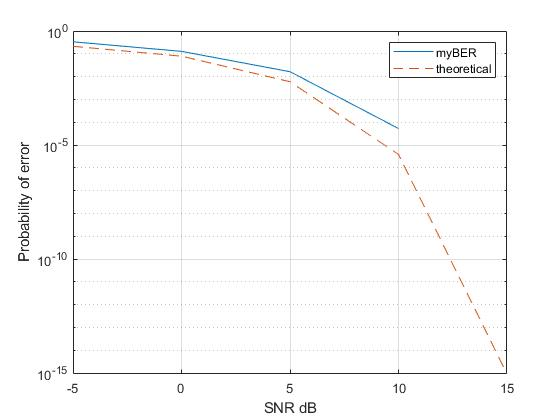
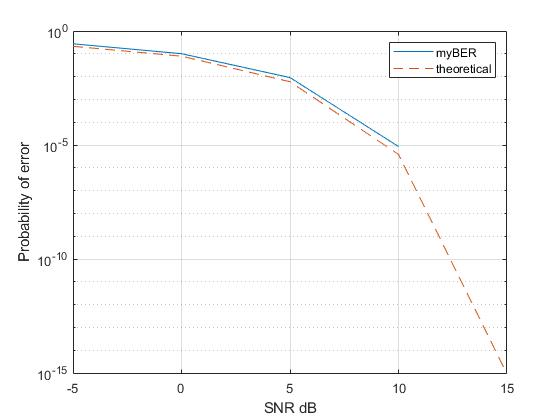
Change modulation

Changed region(s): [[0.1214, 0.0929, 0.7286, 0.3405]]

diff --git a/BER_Curve_Test.m b/BER_Curve_Test.m
@@ -12,11 +12,11 @@ cfg = load('TestParam.mat');            % load configFile
 params = cfg.TestParam;                 % get the set of parameters
 dispConfigFile_Test(params);            % display the parameters
 params.N_pilots = 126;                  % add the number of pilots
-params.N_zeros = 2;                     % add the number of zero ofdm symbol
-params.SNR_list = -5:5:20;              % SNR list for BER curve
+params.N_zeros = 0;                     % add the number of zero ofdm symbol
+params.SNR_list = -5:5:15;              % SNR list for BER curve
 params.Nbps = 2;                        % Modulation order
 params.modulation = 'qpsk';
-NsimPerSNR = 10;                        % number of simulations per SNR value
+NsimPerSNR = 1000;                        % number of simulations per SNR value
 
 %% --- Local parameters
 STO = 0;                                % Time offset (switching unit vector)
@@ -25,7 +25,7 @@ CFO = 0;                                % Carrier frequency offset in ppm
 Nr = 1;                                 % number of receivers
 
 % Number of bits knowing the inactive subcarriers and the number of pilots
-Nbits = params.nData * (params.nActiveQ - params.N_pilots) * params.Nbps;
+Nbits = params.nData * (params.nActiveQ-params.N_pilots) * params.Nbps;
 frame_size = (params.nPreamble+params.nData+params.N_zeros)*(params.Q+params.LCP);
 Nsymb = (params.Q+params.LCP)*(params.nData+params.nPreamble);
 
@@ -58,7 +58,7 @@ for sim_idx = 1:NsimPerSNR
         signal_rx = channel_propagation_test(params,signal_tx,SNR,STO,CFO,Nr);
         
         % 5. CFO and STO estimation:
-        [STO_estimated, CFO_estimated] = estimationSTOCFO_Test(params,signal_rx,0.5);
+        [STO_estimated, CFO_estimated] = estimationSTOCFO_Test(params,signal_rx,1/(params.nPreamble+params.nData+params.N_zeros));
  
         % Average over the antennas
         STO_estimated = round(mean(STO_estimated,'all'));
@@ -102,6 +102,8 @@ grid on; hold on;
 % ber theoretical
 ber_theo = berawgn(params.SNR_list,'qam',2^(params.Nbps));
 semilogy(params.SNR_list,ber_theo,'--');
-legend('myBER','theoretical');
+legend('simulated','theoretical');
 xlabel('SNR dB');ylabel('Probability of error');
-xlim([-5 15]);
+xlim([-5 10]);
+s = sprintf('SISO OFDM modulation BER in presence of AWGN noise \n QPSK case');
+title(s);

diff --git a/MA2_libs/channel_propagation_test.m b/MA2_libs/channel_propagation_test.m
@@ -49,14 +49,19 @@ function signal_rx = channel_propagation_test(params,signal_tx,SNR,STO,CFO,Nr)
     clear impulse_response;
     
     % 3. Noise addition
-    transmitted_energy = norm(signal_tx(:))^2;           % energy of the signal
-    noise_energy = transmitted_energy/(2*10^(SNR/10));     % energy of noise
-    noise_var = noise_energy/(length(signal_tx(:))-1);   % variance of noise to be added
-    noise_std = sqrt(noise_var/2);                       % std. deviation of noise to be added
-    noise = noise_std*(randn(length(signal_tx),1)+1i*randn(length(signal_tx),1));      % noise
-    
+%     transmitted_energy = trapz(abs(signal_tx)).^2;           % energy of the signal
+%     noise_energy = transmitted_energy/(2*10^(SNR/10));     % energy of noise
+%     noise_var = noise_energy/(length(signal_tx));   % variance of noise to be added
+%     noise_std = sqrt(noise_var/2);                       % std. deviation of noise to be added
+%     noise = noise_std*(randn(length(signal_tx),1)+1i*randn(length(signal_tx),1));      % noise
+    Nbits = (params.nPreamble+params.nData)*(params.nActiveQ)*params.Nbps;
+    signalEnergy = norm(signal_tx)^2;
+    Energybit = signalEnergy/Nbits;
+    Energybit = Energybit/2;
+    EbNoLin = 10^(SNR/10);
+    No = Energybit/EbNoLin;
+    noise = sqrt(No/2)*(randn(length(signal_tx),1)+1i*randn(length(signal_tx),1));
 
-    
     % 4. STO addition
     signal_rx = [zeros(Nr,STO), signal_rx(:,1:end-STO)]; 
     

diff --git a/MA2_libs/modulation.m b/MA2_libs/modulation.m
@@ -15,7 +15,7 @@
 %                     QAM constellation. dim=(N_qam_symb,1)
 %
    
-function [Qam_symb] = modulation(params,bits)
+function [Qam_symb] = modulation(params,bits,modulation)
     
 %     % Number of bits per symbol
 %     params.Nbps = params.modulation.params.Nbps;
@@ -23,7 +23,7 @@ Nsymb = size(bits,1)/params.Nbps; % Number of symbols
 bits2 = reshape(bits,params.Nbps,Nsymb)';
 
 
-switch params.modulation
+switch modulation
     
     case 'qpsk'
         
